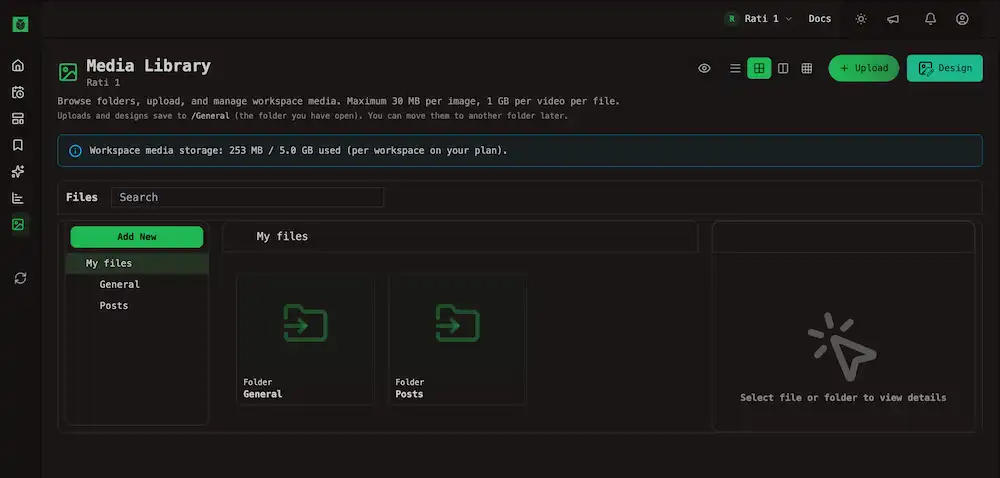
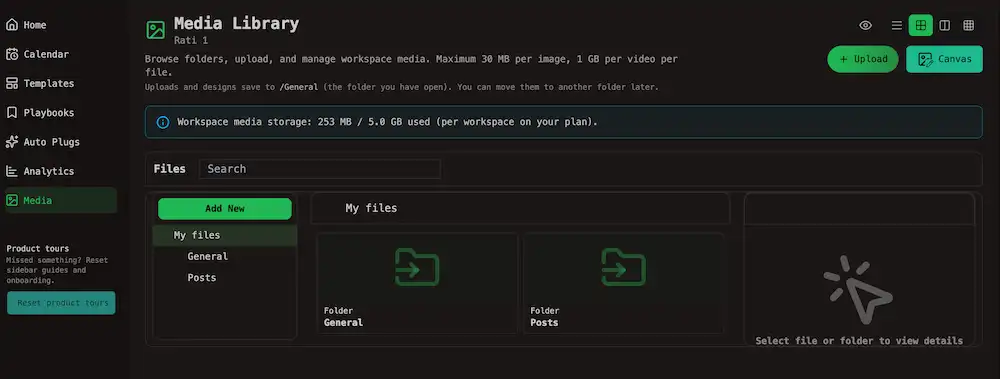
Fix & Docs (./web): Expanding library docs and rename Design Media to Canvas Editor in UI

diff --git a/web/src/lib/ui/components/media/MediaSettings.svelte b/web/src/lib/ui/components/media/MediaSettings.svelte
@@ -435,9 +435,6 @@
 										class="bg-base-200 text-base-content/70 flex min-h-32 flex-col items-center justify-center gap-1 rounded-lg px-4 text-center text-sm"
 									>
 										<p>Could not load this video for frame capture.</p>
-										<p class="text-xs text-base-content/55">
-											On localhost, re-attach the file or check storage CORS if the preview URL is remote.
-										</p>
 									</div>
 								{:else}
 									<div class="bg-base-200 text-base-content/60 flex min-h-32 items-center justify-center rounded-lg text-sm">

diff --git a/web/src/lib/ui/components/media/MediaGenerationModal.svelte b/web/src/lib/ui/components/media/MediaGenerationModal.svelte
@@ -104,7 +104,7 @@
 		<Dialog.Header class="border-base-300 shrink-0 border-b px-4 py-3 sm:px-6">
 			<Dialog.Title class="flex items-center gap-2 text-base font-semibold">
 				<AbstractIcon name={icons.PaintRoller.name} class="size-5" width="20" height="20" />
-				Design Media
+				Canvas Editor
 			</Dialog.Title>
 			<Dialog.Description class="text-base-content/70 text-sm">
 				Pick tools, stock, or upload an image from the left; compose on the canvas on the right.

diff --git a/web/src/lib/ui/components/media/MediaLibraryToolbar.svelte b/web/src/lib/ui/components/media/MediaLibraryToolbar.svelte
@@ -98,7 +98,7 @@
 		<span class="inline-flex shrink-0 text-secondary-content">
 			<GlyphDesignEditor badgeSurfaceClass="rounded-sm bg-secondary shadow-none ring-0" />
 		</span>
-		Design
+		Canvas
 	</Button>
 	
 	<ThirdPartyMediaLibrary

diff --git a/web/src/content/docs/media/add-media.md b/web/src/content/docs/media/add-media.md
@@ -11,20 +11,27 @@ import { Badge, Callout, CardGrid, LinkCard } from '$lib/ui/components/docs/mdx/
 
 ## Add media
 
-> Put new images and videos into the workspace library from Upload, Design, drag-and-drop, or Import.
+> Put new images and videos into the workspace library from **Upload**, **Canvas**, or drag-and-drop on <a href="/account/media">/account/media</a>.
 
-All paths respect your **workspace storage quota**. When storage is full, the page shows a warning and blocks new adds until you delete files or <a href="/docs/cloud/limits">upgrade your plan</a>.
+<Callout type="warning">
+<p>All paths respect your <strong>workspace storage quota</strong>. When storage is full, the page shows a warning and limit your new adds until you delete files or <a href="/docs/cloud/limits">upgrade your plan</a>.</p>
+</Callout>
 
 ## Upload
 
 | Method | Steps |
 | --- | --- |
 | **Upload button** | Click <strong>Upload</strong>, then browse or drop files in the dialog. Upload starts when files are added. |
+
+![Upload Media in File Manager](/docs/_assets/media/view-modes.webp)
+
+| Method | Steps |
+| --- | --- |
 | **Drag and drop** | Drop images or videos onto the file manager or onto the gallery grid (including the empty library state). |
 
-Only **images and videos** are accepted on this page. Other types are rejected with an error message.
-
-While files upload, a **progress overlay** shows encoding (for images) and upload progress. You cannot start another batch until it finishes.
+<Callout type="warning">
+<p>Only <strong>images and videos</strong> are accepted on this page. Other types are rejected with an error message..</p>
+</Callout>
 
 ### Size limits
 
@@ -35,9 +42,11 @@ While files upload, a **progress overlay** shows encoding (for images) and uploa
 | Video | 1 GB per file |
 | One batch (multi-select or drop) | 1 GB combined |
 
-Accepted types match the composer: JPEG, PNG, GIF, WebP, SVG, AVIF, MP4, MOV, WebM, M4V, MPEG. See <a href="/docs/creating-posts/media#limits-and-formats">Creating posts → Media → Limits and formats</a> for the full table.
-
 <Callout type="note">
+<p>Accepted types match the composer: JPEG, PNG, GIF, WebP, SVG, AVIF, MP4, MOV, WebM, M4V, MPEG. See <a href="/docs/creating-posts/media#limits-and-formats">Creating posts → Media → Limits and formats</a> for the full table.</p>
+</Callout>
+
+<Callout type="warning">
 <p>The page subtitle shows the per-file hint (for example <strong>10 MB per image, 1 GB per video</strong>). Limits are per file, not per workspace.</p>
 </Callout>
 
@@ -45,36 +54,50 @@ Accepted types match the composer: JPEG, PNG, GIF, WebP, SVG, AVIF, MP4, MOV, We
 
 In list, grid, or panels view, uploads go to the **folder you have open**. The page shows that path under the title. Change folder before you upload, or move files afterward — see <a href="/docs/media/browse-and-organize">Browse and organize</a>.
 
-## Design
+## Canvas Editor
 
-Click **Design** to open the canvas editor (templates, text, and shapes — same family of tools as <a href="/tools/photo-editor">Photo Editor</a> and **Design Media** in the composer).
+Click **Canvas** to open the canvas editor (templates, text, and shapes — same family of tools as <a href="/tools/photo-editor">Photo Editor</a> and **Design Media** in the post editor).
+
+![Click to Open Canvas Editor](/docs/_assets/media/view-modes.webp)
 
 When you finish, choose **Save this for later**. The export is stored in the library like an upload. Design is disabled when storage is full or no workspace is selected.
 
+![USe Canvas Editor and Save](/docs/_assets/media/canvas-editor.webp)
+
 ## Import
 
-If your workspace has a **media-library** connector configured, an **Import** button appears. Open it, pick the source, then select files to copy into OpenQuok.
+When your workspace has at least one connector scoped to the media library, an **Import** button appears in the **same toolbar row as Upload and Design** (top right of the Media library page).
 
-Import is blocked when storage is full. If no connector is set up, the button does not show.
+Open **Import**, choose the connected source, then select files to copy into OpenQuok. Import is blocked when storage is full.
+
+<Callout type="note">
+<p>If you only see <strong>Upload</strong> and <strong>Design</strong>, no <strong>media-library</strong> connector is enabled for that workspace yet — Import stays hidden until one is configured on the server.</p>
+</Callout>
 
 ## Storage banner
 
-Below the title, OpenQuok shows **workspace media storage** used versus your plan cap (per workspace on hosted cloud).
+Below the title, OpenQuok shows **workspace media storage** used versus your hosted cloud plan per workspace.
 
 | State | What you see |
 | --- | --- |
 | Under the cap | Used and total size |
-| At the cap | A warning, <strong>Storage full</strong> on Upload, and an **Upgrade plan** link to <Badge text="/account/billing" variant="path" /> when billing is available |
-
-Self-hosted installs may not show a quota bar; server limits still apply.
+| At the cap | A warning, <strong>Storage full</strong> on Upload, and an <Badge text="Upgrade plan" variant="experimental" /> link |
 
 ## After you add files
 
 Reuse them in the composer via **Media library**, or open **Media details** on the file to set alt text or a video poster — <a href="/docs/media/media-details">Media details</a>.
 
-## Deleting files you added
+## Deleting files
 
-Deleting removes the file from the workspace library. **Published** posts are not changed — networks keep their own copy. **Scheduled** posts that still reference a deleted file can fail at publish time. Check the calendar before you delete recent assets.
+<Callout type="note">
+<p>Deleting removes the file from workspace storage and from the media library, meaning the the network already has its own copy of the image or video. It does <strong>not</strong> unpublish or edit posts that already went live.</p>
+</Callout>
+
+| Situation | What happens |
+| --- | --- |
+| **Already published** | The live post on the network stays as it was. OpenQuok keeps the post record, but calendar thumbnails, composer previews, and shared preview pages may show **broken media**. |
+| **Scheduled or draft** | Publish can **fail** if the post still references a deleted file. |
+
 
 ## Related
 

diff --git a/web/src/content/docs/media/browse-and-organize.md b/web/src/content/docs/media/browse-and-organize.md
@@ -15,13 +15,17 @@ import { Badge, Callout, CardGrid, LinkCard } from '$lib/ui/components/docs/mdx/
 
 The main browser is a **file manager**.
 
+![Open OpenQuok Media Tab on the Left Sidebar](/docs/_assets/media/file-manager.webp)
+
 - a navigation tree on the left
 - the current folder in the center
 - a toolbar for search and display options
 
 ## View modes
 
-Use the four buttons next to the page title.
+Use the four buttons next to the page title. **Grid view** is the default.
+
+![Select Your View Modes](/docs/_assets/media/view-modes.webp)
 
 | Mode | Best for |
 | --- | --- |
@@ -32,24 +36,42 @@ Use the four buttons next to the page title.
 
 In list, grid, or panels mode, turn the **preview** control (eye icon) on or off to show file details beside the list.
 
-Gallery view uses **pagination** at the bottom. Change page size (12, 24, 48, or 96 items) when you have many files.
-
-<Callout type="tip">
-<p>In gallery view you can still upload by dragging files onto the grid or the empty-state drop zone.</p>
-</Callout>
+See **Gallery view** below for the workspace-wide thumbnail grid, pagination, and tile actions.
 
 ## Folders
 
-Virtual folders group files inside a workspace. They do not change where files are stored on the server; they are labels you use to stay organized.
+Every workspace includes two top-level folders:
+
+| Folder | What goes here |
+| --- | --- |
+| **General** | Uploads, designs, and imports from the <a href="/account/media">Media library</a> page. This is the default when you upload from that page. |
+| **Posts** | Media you attach from the post ediotor — see <a href="/docs/creating-posts/media">Media</a>. |
+
+![OpenQuok 's Parent Folder in Grid View](/docs/_assets/media/my-files.webp)
+
+| Folder | What goes here |
+| --- | --- |
+| **Posts/unscheduled** | Composer attachments when the post has no publish date yet. |
+| **Posts/YYYY-MM-DD** | Composer attachments for scheduled posts (UTC calendar day). |
+
+<Callout type="tip">
+<p>You can create additional folders with <strong>New folder</strong>.</p>
+</Callout>
+
+<Callout type="warning">
+<p>You can create additional folders with <strong>New folder</strong>. <strong>General</strong>, <strong>Posts</strong>, and <strong>Posts/unscheduled</strong> are built in and cannot be deleted.</p>
+</Callout>
 
 | Action | How |
 | --- | --- |
 | **Open a folder** | Click it in the tree or in the main pane |
-| **Go up** | Use breadcrumbs or **back to parent folder** |
+| **Open the parent folder** | Click a breadcrumb segment, or choose **Back to parent folder** |
 | **Create a folder** | In the navigation pane, choose <strong>Add New</strong> → <strong>New folder</strong>, enter a name, confirm |
 | **Delete a folder** | Select the folder, then delete from the context menu or keyboard (see below) |
 
-New uploads and designs from <a href="/docs/media/add-media">Add media</a> go into the folder that is open when you add them.
+<Callout type="tip">
+<p>Uploads and designs from <a href="/docs/media/add-media">Add media</a> save to the folder you have open in the file manager at that moment. Move them later if needed.</p>
+</Callout>
 
 ## File actions
 
@@ -67,17 +89,34 @@ Select one or more files or folders, then use the **right-click menu** or shortc
 | **Open file location** from search results | Ctrl+Alt+O |
 | **Select all** in the current folder | Ctrl+A |
 
-Copy and paste work across folders. In **panels view**, open source and destination in each panel, then cut or copy and paste.
+![OpenQuok file manager 's file actions](/docs/_assets/media/file-actions.webp)
 
-Open a **file** (not a folder) to open **Media details** when the item is a library asset — see <a href="/docs/media/media-details">Media details</a>. You can also pick **Media settings** from the context menu.
+<Callout type="note">
+<p>See more regarding <a href="/docs/media/media-details">Media details</a>.</p>
+</Callout>
 
-## Gallery view actions
+<Callout type="tip">
+<p>You can copy and paste work across folders in <strong>panels view</strong> by opening source and destination in each panel, then cut or copy and paste..</p>
+</Callout>
 
-Each tile has controls to **preview**, open **settings**, or **delete**. Preview opens a larger view; delete asks you to confirm.
+![OpenQuok 's Panel View](/docs/_assets/media/panel-view.webp)
 
-## While uploads run
+## Gallery view
 
-The file manager is **read-only** until the current upload batch finishes. Wait for the progress overlay to clear before you move or delete files.
+Gallery mode hides the folder tree and file-manager layout. You get one paginated thumbnail grid of **every file in the workspace**, across **General**, **Posts**, and any custom folders.
+
+It is the fastest way to scan the whole library when you are not sure which folder holds an asset. Page through results at the bottom — page sizes are **12**, **24**, **48**, or **96** items.
+
+![OpenQuok Gallery View](/docs/_assets/media/gallery-view.webp)
+
+Each tile offers **preview**, **settings**, and **delete**:
+- **Preview** opens a larger view
+- **Settings** opens **Media details** for alt text and video posters
+- **Delete** asks you to confirm. You can still **upload** by dragging files onto the grid.
+
+<Callout type="note">
+<p>Copy, move, rename, and folder actions live in <strong>list</strong>, <strong>grid</strong>, or <strong>panels</strong> view. Switch back when you need the full file manager. See <a href="/docs/media/media-details">Media details</a>.</p>
+</Callout>
 
 ## Related
 

diff --git a/web/src/content/docs/creating-posts/media.md b/web/src/content/docs/creating-posts/media.md
@@ -1,6 +1,6 @@
 ---
 title: Media
-description: Attach images and video in the post editor — device upload, library, Design Media, limits, and Global vs per-channel lists.
+description: Attach images and video in the post editor — device upload, library, Canvas Editor (aka Design Media), limits, and Global vs per-channel lists.
 order: 4
 lastUpdated: 2026-09-01
 ---
@@ -26,7 +26,7 @@ In **Global** mode, one attachment list is copied to every channel selected. You
 | **Add media** | First toolbar button opens a device picker. Choose one or more images or videos. Files upload to your workspace. |
 | **Drag and drop** | Drop images or videos onto the area below toolbar. |
 | **Media library** | Second toolbar button — attach files already stored at <a href="/account/media">/account/media</a>. See <a href="/docs/media">Media library</a> for uploads, folders, and storage. |
-| **Design Media** | Canvas toolbar button — open the **Photo Editor**, create or edit a visual, then choose **Use this media** to attach the export. Same canvas as the public <a href="/tools/photo-editor">Photo Editor</a> tool. |
+| **Canvas Editor** | Design Media toolbar button — open the **Photo Editor**, create or edit a visual, then choose **Use this media** to attach the export. Same canvas as the public <a href="/tools/photo-editor">Photo Editor</a> tool. |
 
 ![Media toolbar with modal and drag&drop ](/docs/_assets/creating-posts/editor-media-modal.webp)
 
@@ -76,7 +76,7 @@ Channel-specific visuals that are part of publish settings stay in **Settings** 
 
 ## Photo Editor
 
-**Design Media** in the composer opens the same Konva canvas as <a href="/tools/photo-editor">/tools/photo-editor</a>. Draw, add text, or start from a template, then export with **Use this media** to add the image to the post.
+**Design Media** in the post editor opens the same canvas editor as <a href="/tools/photo-editor">/tools/photo-editor</a>. Draw, add text, or start from a template, then export with **Use this media** to add the image to the post.
 
 Cloud save requires a signed-in workspace. If workspace storage is full, save is blocked — see <a href="/docs/cloud/limits">Cloud limits</a>.
 
@@ -134,7 +134,7 @@ Upload assets first with <Badge text="openquok upload" variant="default" /> or <
 <LinkCard title="Global vs per-channel" description="One caption or a version per network" href="/docs/creating-posts/global-vs-per-channel" />
 <LinkCard title="Media library" description="Upload, folders, views, and workspace storage" href="/docs/media" />
 <LinkCard title="Tour the app" description="Sidebar and composer entry points" href="/docs/getting-started/tour-the-app" />
-<LinkCard title="Photo Editor" description="Public Photo Editor — same canvas as Design Media in the composer" href="/tools/photo-editor" />
+<LinkCard title="Photo Editor" description="Public Photo Editor — same canvas edior as the post editor" href="/tools/photo-editor" />
 <LinkCard title="Media rules" description="Image, video, and carousel limits per network" href="/docs/platforms/media-rules" />
 <LinkCard title="Media upload (CLI)" description="openquok upload and upload-from-url recipes" href="/docs/cli-usages/media-upload" />
 <LinkCard title="Uploads APIs" description="Attach media via the public API" href="/docs/apis-uploads" />

diff --git a/web/src/content/docs/media/media-details.md b/web/src/content/docs/media/media-details.md
@@ -11,16 +11,21 @@ import { Callout, CardGrid, LinkCard } from '$lib/ui/components/docs/mdx/index.j
 
 ## Media details
 
-> Describe images for accessibility and pick a cover frame for videos — once per library file.
+> Describe images for accessibility and pick a cover frame for videos.
 
 Open **Media details** from the library in any of these ways:
 
 | Entry point | How |
 | --- | --- |
 | **File manager** | Open a file, or right-click → <strong>Media settings</strong> |
-| **Gallery view** | Use the settings control on a tile |
 
-The same dialog is available from the post composer when you click a thumbnail or the gear on an attachment. Changes save to the **workspace media library** and apply wherever that file is reused.
+![Click file manager's Media Settings](/docs/_assets/media/file-actions.webp)
+
+| **Gallery view** | Use the settings control (<strong>Gear</strong> Icon) on a tile |
+
+![Open Gallery's Media Settings Modal](/docs/_assets/media/gallery-media-gear-icon.webp)
+
+The same dialog is available from the post editor when you click a thumbnail or the gear on an attachment. Changes save to the **workspace media library** and apply wherever that file is reused.
 
 ## Alt text
 
@@ -32,17 +37,26 @@ Alt text is most useful for images. It is stored with the file in OpenQuok. At p
 
 ## Video poster
 
-For **video** files you can set a **poster** (thumbnail image):
+For **video** files you can set a **thumbnail image**:
 
-1. Choose **Create thumbnail** (or open the thumbnail editor).
+1. Choose **Create thumbnail** (**or Edit thumbnail**).
 2. Move the slider to the frame you want.
 3. Click **Use current frame as thumbnail**.
 4. **Clear thumbnail** removes a poster you set earlier.
 
-The poster is saved with the media record. For some channels (for example Instagram reels), publish settings may use the poster **timestamp** for cover offset. Network-specific publish fields stay in composer **Settings** — see <a href="/docs/platforms/per-channel-settings">Per-channel settings</a>.
+![Edit Gallery's Media Thumbnail](/docs/_assets/media/gallery-media-settings.webp)
+
+
+<Callout type="tip">
+<p>On some channels (for example <strong>Instagram Reels</strong>), the frame you pick here can become the video cover when the post goes live. You choose the frame in Media details — not in per-channel Settings.</p>
+</Callout>
 
 <Callout type="note">
-<p>If you edit the same file from the composer and from <strong>/account/media</strong>, you see one shared <strong>Media details</strong> form. Saving in either place updates the library copy.</p>
+<p>Captions, tags, link previews, and other publish-only options stay in composer <strong>Settings</strong>, not in Media details. See <a href="/docs/platforms/per-channel-settings">Per-channel settings</a>.</p>
+</Callout>
+
+<Callout type="note">
+<p>If you edit the same file from the post editor and from <strong>/account/media</strong>, you see one shared <strong>Media details</strong>. Saving in either place updates the library copy.</p>
 </Callout>
 
 ## Related

diff --git a/web/src/content/docs/media/index.md b/web/src/content/docs/media/index.md
@@ -17,7 +17,7 @@ import { Badge, Callout, CardGrid, LinkCard } from '$lib/ui/components/docs/mdx/
 
 Open the library from the account sidebar: <Badge text="Media" variant="default" /> at <Badge text="/account/media" variant="path" />. The page title shows the **current workspace**. Switch workspaces in the header to manage another team’s files.
 
-![Open OpenQuok Media Tab on left sidebar](/docs/_assets/media/my-files.webp)
+![Open OpenQuok Media Tab on the Left Sidebar](/docs/_assets/media/my-files.webp)
 
 <Callout type="note">
 <p>You must select a workspace before the library loads. If the page is empty, pick a workspace from the header switcher.</p>
@@ -30,7 +30,7 @@ Open the library from the account sidebar: <Badge text="Media" variant="default"
 | **Upload** on this page | Images and videos from your device |
 | **Design** on this page | Exports from the built-in canvas (same editor as <strong>Design Media</strong> in the composer) |
 | **Import** | Files copied from a connected third-party source (when your workspace has that connector) |
-| **Post composer** | Uploads and designs you attach while writing a post |
+| **Post Editor** | Uploads and designs you attach while composing a post |
 
 The library page accepts **images and videos only**. Other file types may work through the <a href="/docs/cli-usages/media-upload">CLI</a> or <a href="/docs/apis-uploads">Uploads API</a> — see <a href="/docs/creating-posts/media">Media in the composer</a> for how those attach to posts.
 
@@ -43,7 +43,7 @@ The library page accepts **images and videos only**. Other file types may work t
 | **Storage banner** | Shows how much of your workspace media quota is in use. When the cap is full, new uploads are blocked until you free space or upgrade — see <a href="/docs/cloud/limits">Cloud limits</a> |
 | **Main pane** | Folder tree, file list, or gallery grid depending on the view you chose |
 
-Uploads and new designs save to the **folder you have open** in list, grid, or panels view. You can move files to another folder later.
+Uploads and new designs save to the **folder you have open** in list, grid, or panels view (often **General**). Composer attachments are filed under **Posts** automatically. You can move files to another folder later — see <a href="/docs/media/browse-and-organize#folders">Browse and organize → Folders</a>.
 
 ## Use files in posts
 

diff --git a/web/src/content/docs/creating-posts/index.md b/web/src/content/docs/creating-posts/index.md
@@ -119,7 +119,7 @@ Closing the composer asks you to confirm — unsaved work is discarded. If you n
 <LinkCard title="Global vs per-channel" description="One caption for every channel or a version per network" href="/docs/creating-posts/global-vs-per-channel" />
 <LinkCard title="Writing the post" description="Captions, the toolbar, and per-network previews in detail" href="/docs/creating-posts/writing-the-post" />
 <LinkCard title="Threads and comments" description="Multi-part posts and follow-up comments" href="/docs/creating-posts/threads-and-comments" />
-<LinkCard title="Media" description="Device upload, library, Design Media, limits, and per-channel lists" href="/docs/creating-posts/media" />
+<LinkCard title="Media" description="Device upload, library, Canvas Editor, limits, and per-channel lists" href="/docs/creating-posts/media" />
 <LinkCard title="AI generation" description="Draft posts with agents, MCP, and the public API" href="/docs/creating-posts/ai-generation" />
 <LinkCard title="Scheduling" description="Pick a publish time and save as draft or scheduled" href="/docs/creating-posts/scheduling" />
 <LinkCard title="Links and validation" description="Link previews, character limits, and save-time errors" href="/docs/creating-posts/links-and-validation" />
